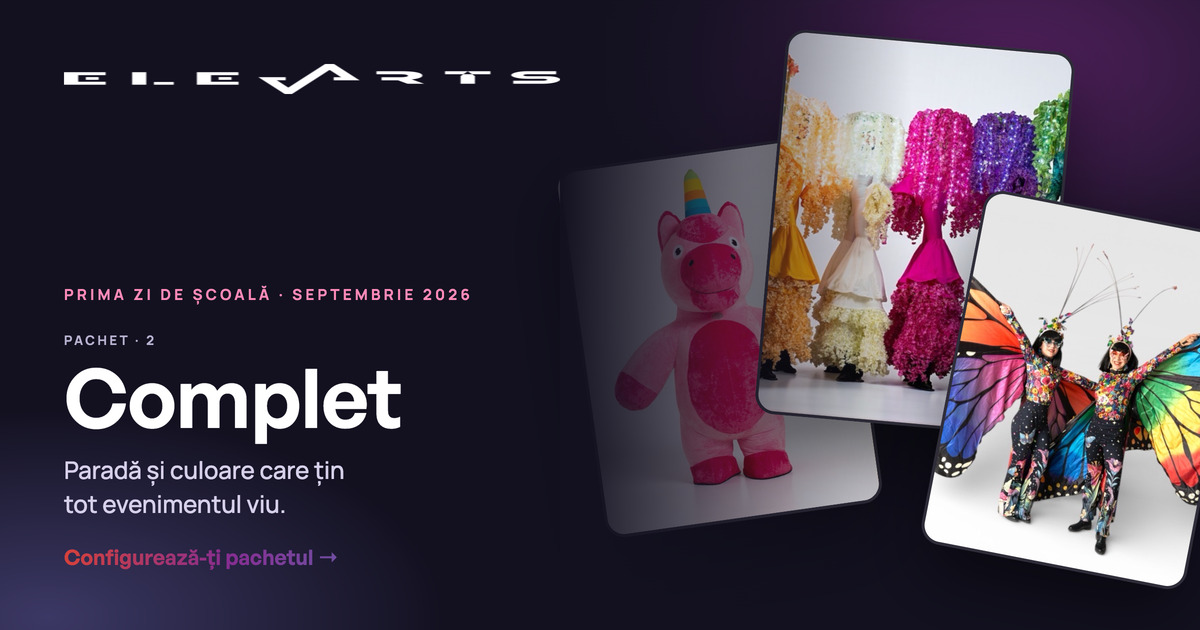
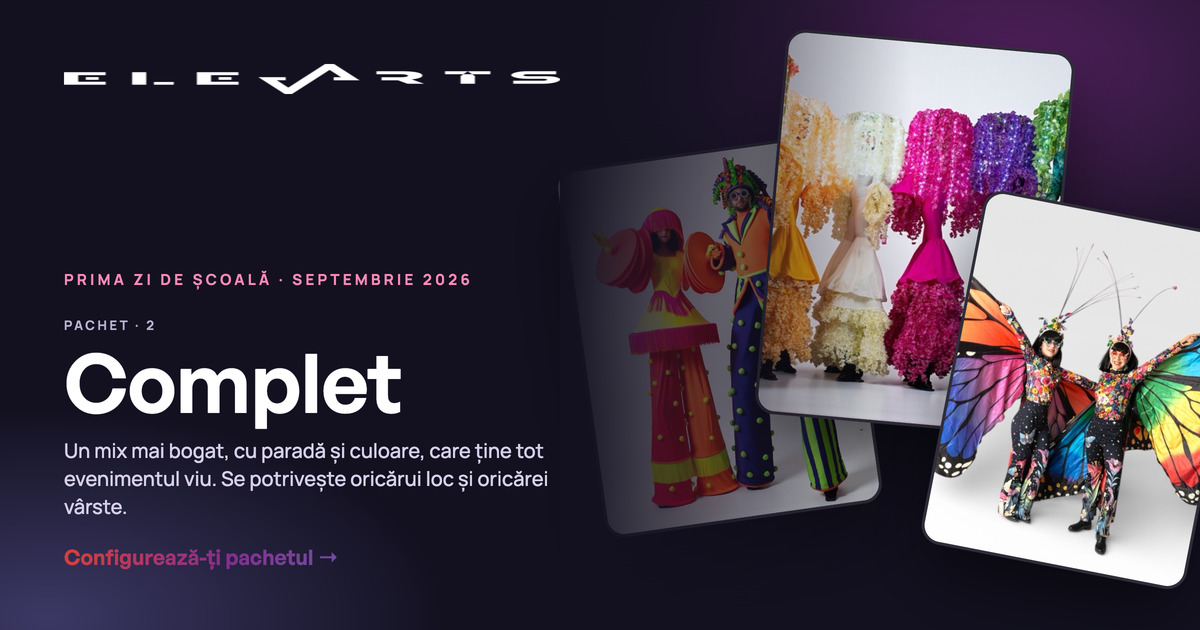
Thumbnail-uri: descrieri din configurator + unicorn doar la Esential (Complet=Color Pop)

Changed region(s): [[0.0308, 0.5127, 0.4625, 0.8143], [0.4933, 0.2413, 0.74, 0.8143], [0.0617, 0.4222, 0.4008, 0.4825]]

diff --git a/scoala/og-preview.html b/scoala/og-preview.html
@@ -5,7 +5,7 @@ h1{font-size:18px;font-weight:600;margin:0 0 18px}.c{margin:0 0 26px}
 .c p{font-size:13px;color:#b9b2d0;margin:0 0 8px}
 img{width:100%;max-width:1200px;height:auto;border-radius:14px;display:block;box-shadow:0 10px 40px rgba(0,0,0,.5)}</style></head>
 <body><h1>Thumbnail-uri share pachete · 1200×630 (og:image)</h1>
-<div class="c"><p>Esențial</p><img src="og-esential.jpg?v=1" alt=""></div>
-<div class="c"><p>Complet</p><img src="og-complet.jpg?v=1" alt=""></div>
-<div class="c"><p>Premium</p><img src="og-premium.jpg?v=1" alt=""></div>
+<div class="c"><p>Esențial</p><img src="og-esential.jpg?v=2" alt=""></div>
+<div class="c"><p>Complet</p><img src="og-complet.jpg?v=2" alt=""></div>
+<div class="c"><p>Premium</p><img src="og-premium.jpg?v=2" alt=""></div>
 </body></html>
